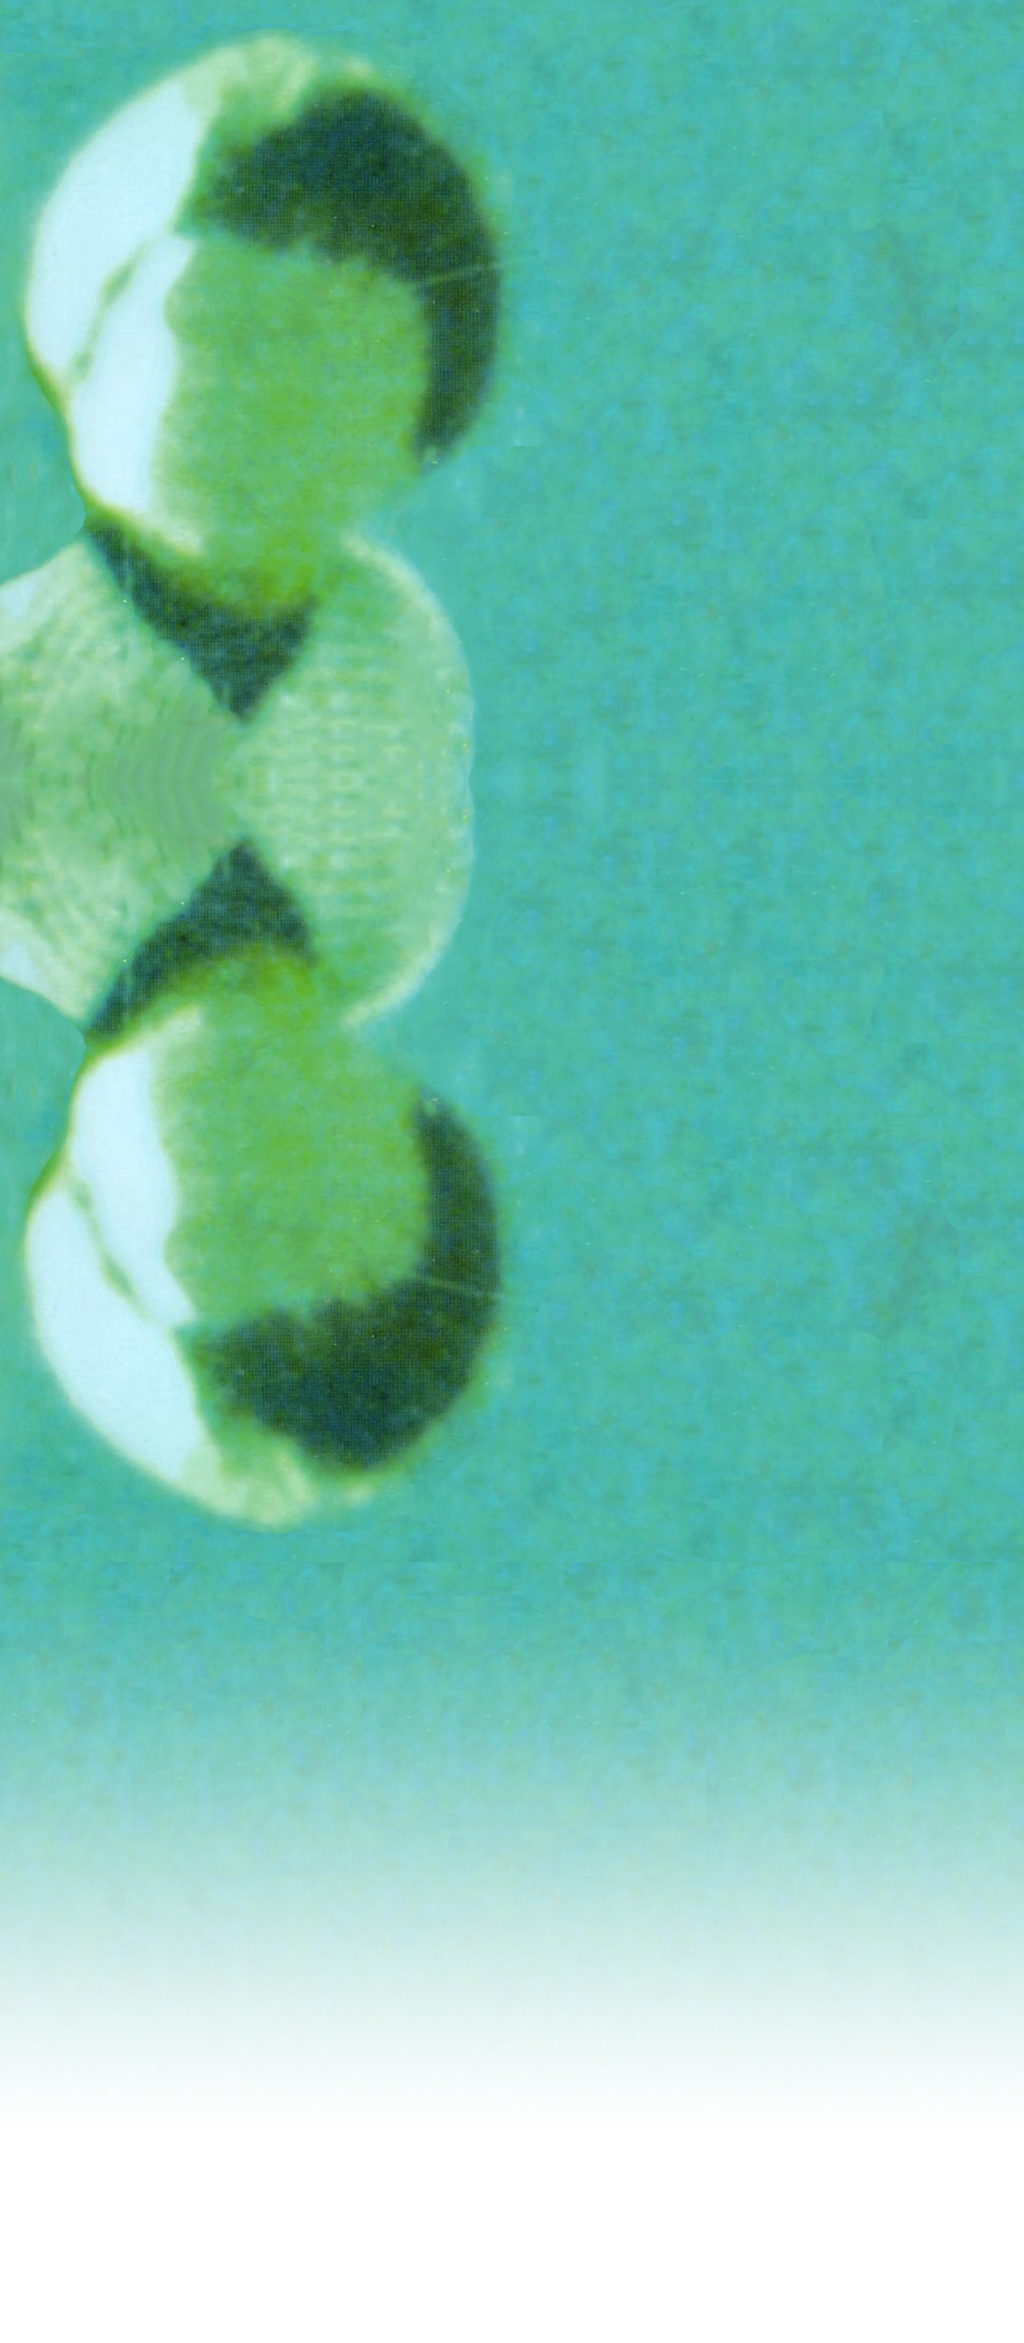
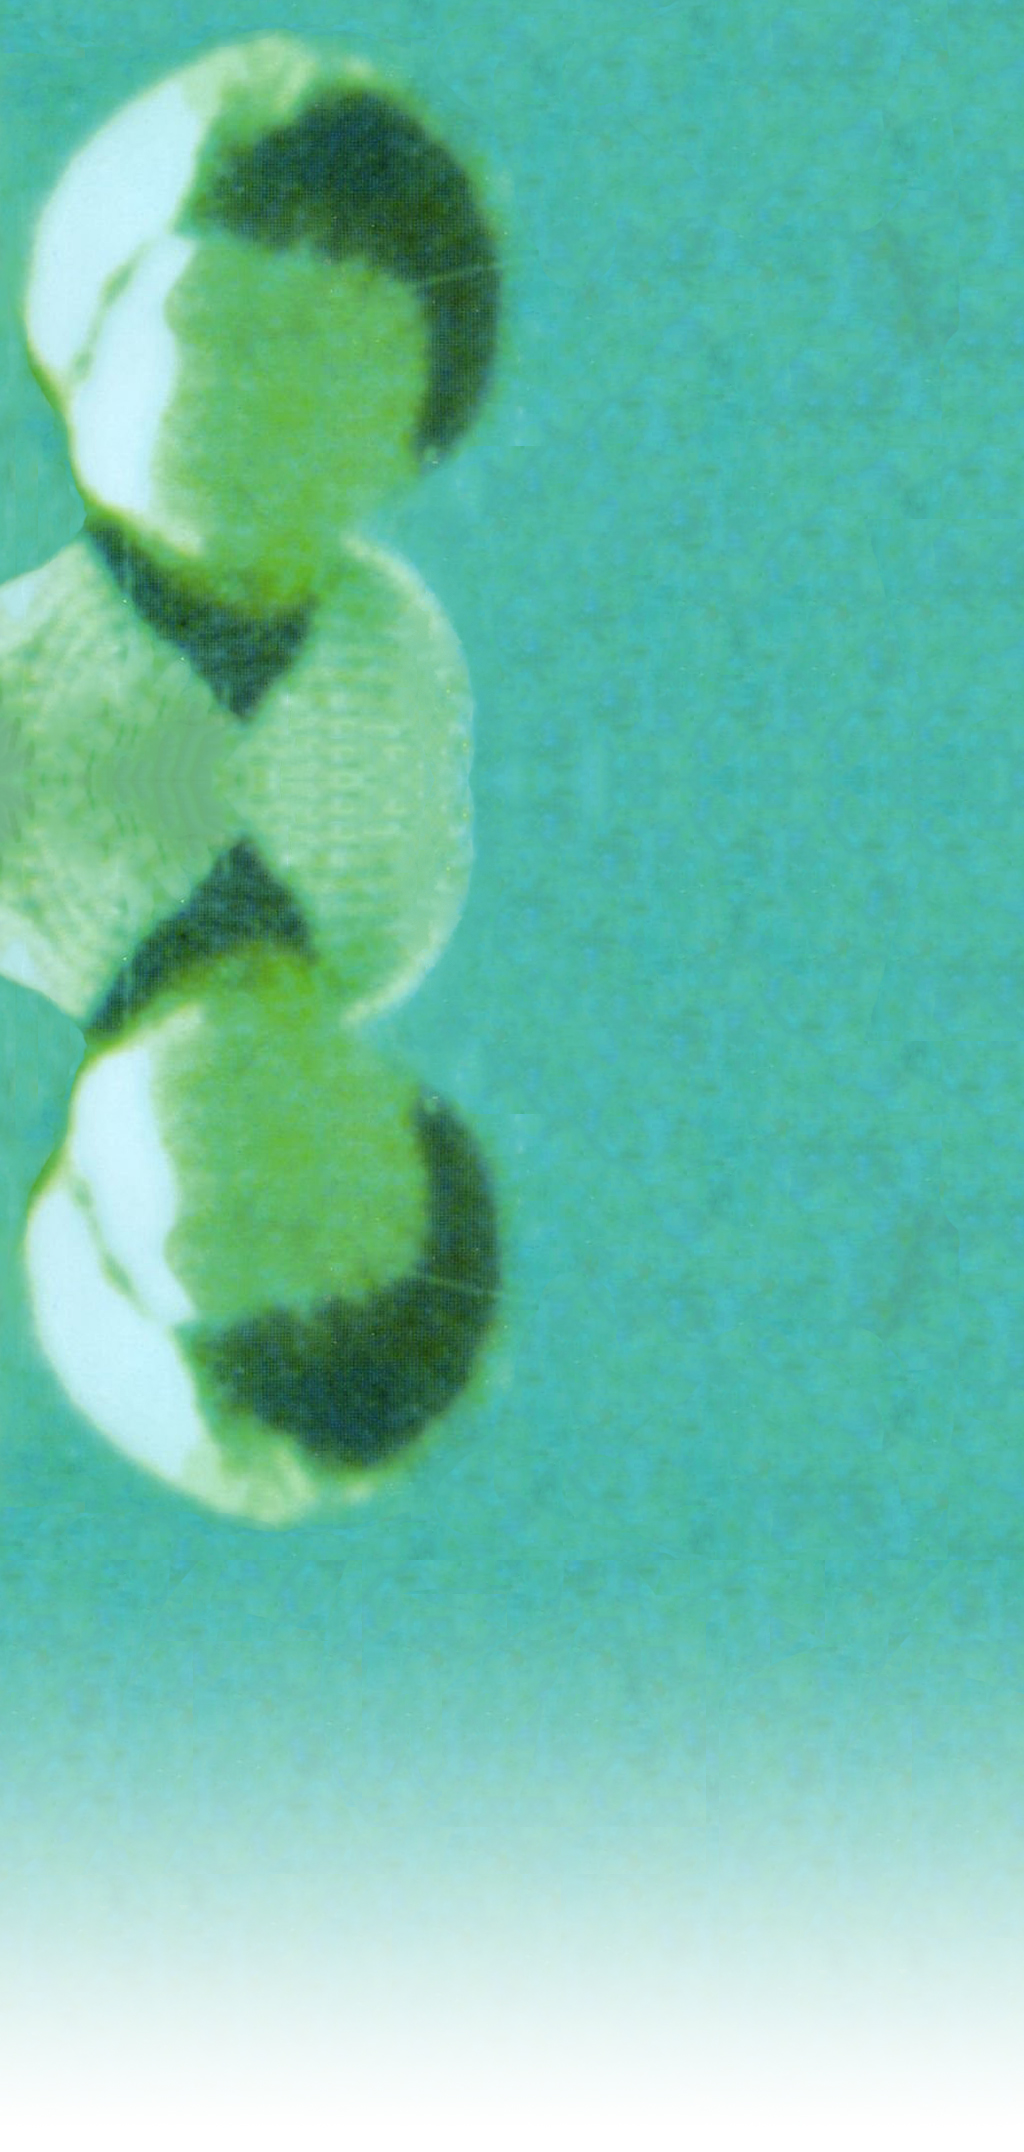
changed image dimensions

diff --git a/css/style.css b/css/style.css
@@ -4,7 +4,7 @@ div {
    background-size: cover;
    background-attachment: scroll;
    background-repeat: no-repeat;
-   height: 2343px;
+   height: 2152px;
 }
 
 blockquote::before {
